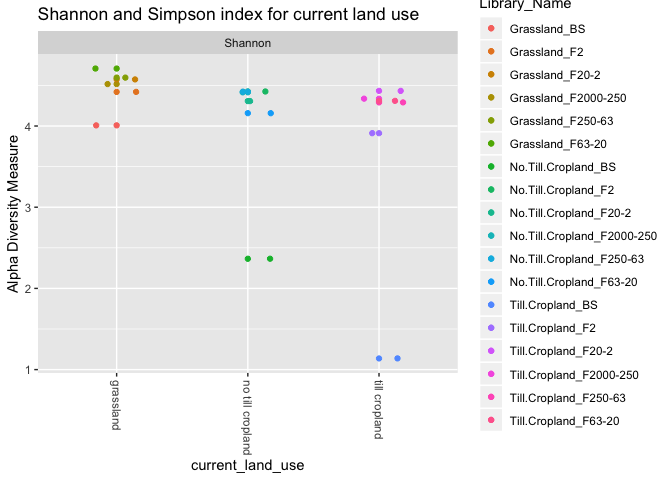
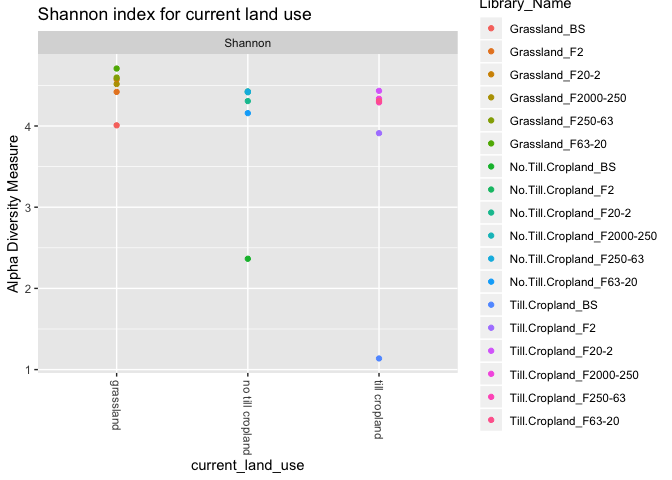
Add corrections to pass Travis
The file passes lintr, knits, and will be tested to
see if it passes Travis.

diff --git a/Final_Report.md b/Final_Report.md
@@ -102,8 +102,7 @@ plot_richness(phyloseq_obj,
                x = "current_land_use",
                measures = c("Shannon"),
               color = ("Library_Name"),
-title = ("Shannon and Simpson index for current land use")) +
-   geom_jitter(width = 0.2)
+title = ("Shannon index for current land use"))
 ```
 
     ## Warning in estimate_richness(physeq, split = TRUE, measures = measures): The data you have provided does not have
